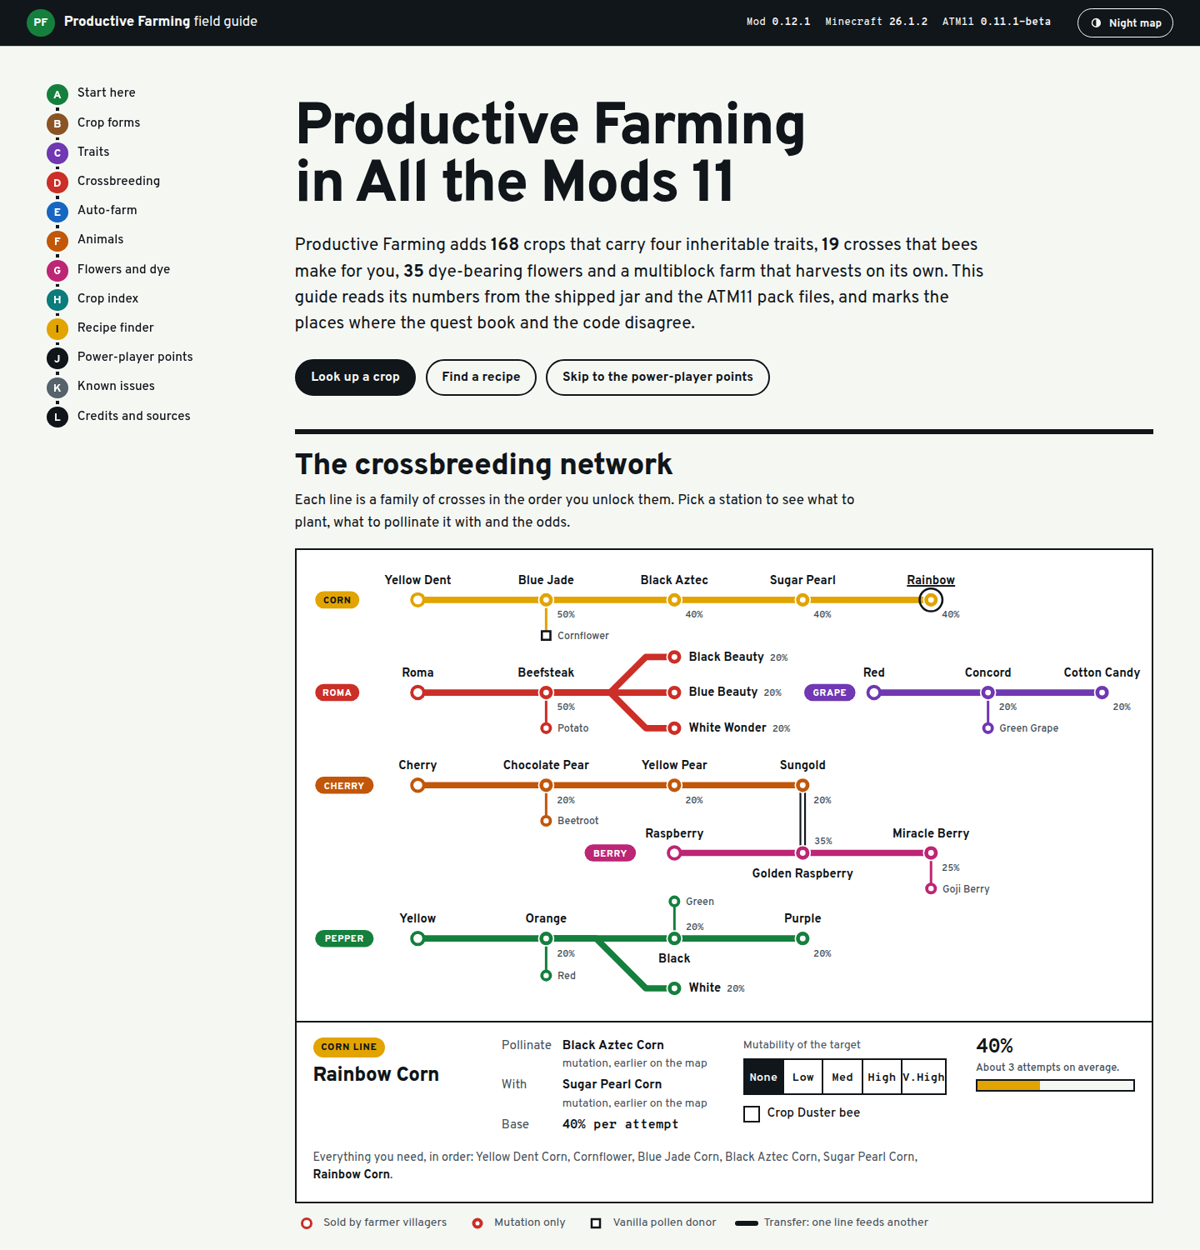
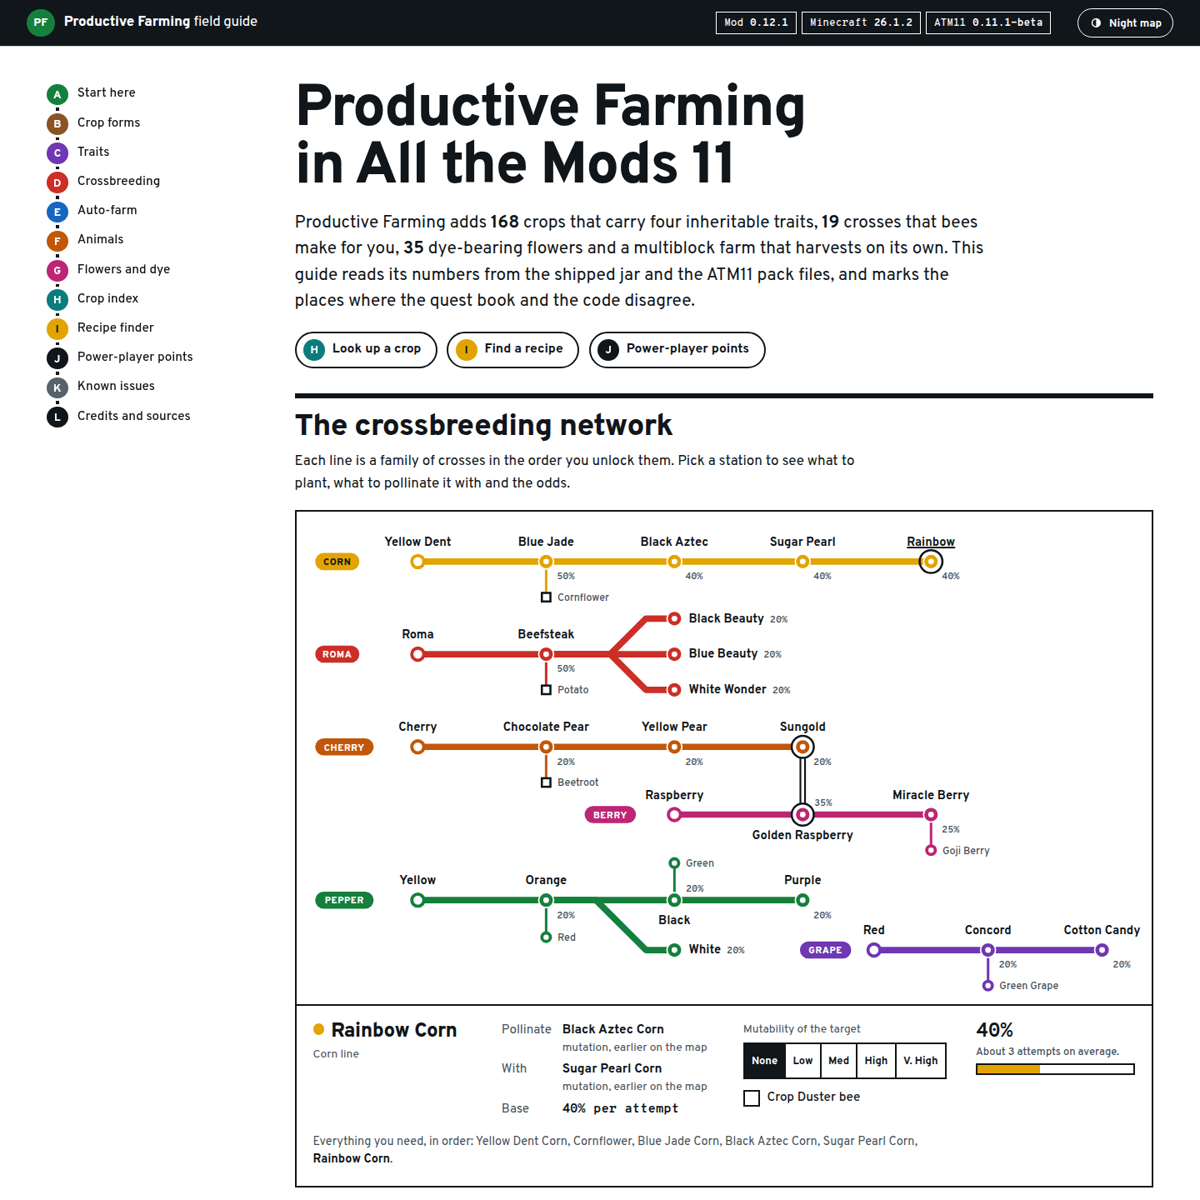
Loosen small-text leading; preview image provenance

diff --git a/assets/styles.css b/assets/styles.css
@@ -318,7 +318,7 @@ h1 {
 .m-stop.m-dim .dot-feed, .m-stop.m-dim .dot-x { stroke: var(--l-slate); }
 .m-tag.m-dim .m-line-bg { fill: var(--l-slate); }
 .m-tag.m-dim .m-line { fill: var(--on-line) !important; }
-.m-route, .m-feed, .m-link { transition: stroke 0.3s var(--ease), stroke-width 0.3s var(--ease); }
+.m-route, .m-feed, .m-link { transition: stroke 0.3s var(--ease); }
 
 @media (prefers-reduced-motion: no-preference) {
   .network.is-drawing .m-route { stroke-dasharray: var(--len); stroke-dashoffset: var(--len); animation: draw 1.4s var(--ease) forwards; animation-delay: calc(var(--i) * 0.12s); }
@@ -348,7 +348,7 @@ h1 {
 .meter__track { height: 0.9rem; border: 2px solid var(--ink); background: var(--paper); }
 .meter__fill { height: 100%; background: var(--c); width: var(--w); }
 .meter__val { font: 700 1.5rem/1 var(--mono); }
-.meter__val small { font: 500 0.8rem/1.3 var(--sans); color: var(--ink-2); display: block; margin-top: 0.3rem; }
+.meter__val small { font: 500 0.8rem/1.4 var(--sans); color: var(--ink-2); display: block; margin-top: 0.3rem; }
 .stepper { display: grid; gap: 0.35rem; }
 .stepper__label { font-size: 0.86rem; color: var(--ink-2); }
 .seg { display: flex; border: 2px solid var(--ink); }
@@ -511,7 +511,7 @@ select {
 }
 .blend__out { list-style: none; display: grid; grid-template-columns: repeat(5, minmax(0, 1fr)); gap: 0.5rem; position: relative; }
 .blend__out::before { content: ""; position: absolute; left: 10%; right: 10%; top: 1.25rem; height: 6px; margin-top: -3px; background: var(--ink); border-radius: 3px; }
-.blend__out li { display: grid; justify-items: center; gap: 0.35rem; text-align: center; font-size: 0.82rem; line-height: 1.25; position: relative; }
+.blend__out li { display: grid; justify-items: center; gap: 0.35rem; text-align: center; font-size: 0.82rem; line-height: 1.35; position: relative; }
 .disc { width: 2.5rem; height: 2.5rem; border-radius: 50%; background: var(--c); border: 3px solid var(--ink); }
 .blend__out .mono { color: var(--ink-2); font-size: 0.74rem; }
 
@@ -523,7 +523,7 @@ select {
 .flowers li { display: grid; grid-template-columns: auto 1fr; gap: 0.1rem 0.75rem; align-items: center; padding: 0.65rem 0.5rem 0.6rem 0; border-bottom: 1px solid var(--rule); }
 .flowers .disc { width: 2rem; height: 2rem; grid-row: span 2; border-width: 2.5px; }
 .flowers b { font-weight: 800; line-height: 1.2; }
-.flowers span { font-size: 0.84rem; color: var(--ink-2); line-height: 1.3; }
+.flowers span { font-size: 0.84rem; color: var(--ink-2); line-height: 1.36; }
 
 /* Finders */
 .finder { display: grid; gap: 0.9rem; max-width: 68rem; position: sticky; top: var(--bar-h); z-index: 5; background: var(--paper); padding: 0.75rem 0 0.6rem; border-bottom: 2px solid var(--ink); }
@@ -567,7 +567,7 @@ select {
 .mk-feed { fill: var(--panel); stroke: var(--ink); stroke-width: 2.6; }
 .index .nm { font-weight: 800; line-height: 1.2; }
 .index .lat { display: block; font-weight: 400; font-style: italic; font-size: 0.84rem; color: var(--ink-2); }
-.index .col { font-size: 0.92rem; line-height: 1.3; }
+.index .col { font-size: 0.92rem; line-height: 1.36; }
 .index .col small { display: block; color: var(--ink-2); font-size: 0.8rem; }
 .index details { border-block: 2px solid transparent; }
 .index details[open] { border-block-color: var(--ink); }
@@ -586,7 +586,7 @@ select {
 .recipes .rd { font-size: 0.94rem; color: var(--ink-2); margin-top: 0.15rem; }
 .recipes .rd b { color: var(--ink); font-weight: 600; }
 .grid3 { display: inline-grid; grid-template-columns: repeat(var(--cols), 5.6rem); gap: 2px; margin-top: 0.5rem; }
-.grid3 span { min-height: 3rem; display: grid; place-items: center; text-align: center; padding: 0.2rem; border: 1.5px solid var(--ink); background: var(--panel); font-size: 0.72rem; font-weight: 600; line-height: 1.15; color: var(--ink); }
+.grid3 span { min-height: 3rem; display: grid; place-items: center; text-align: center; padding: 0.2rem; border: 1.5px solid var(--ink); background: var(--panel); font-size: 0.72rem; font-weight: 600; line-height: 1.36; color: var(--ink); }
 .grid3 span.blank { border-style: dashed; border-color: var(--rule); background: transparent; }
 .btn { min-height: 2.75rem; padding: 0.16em 1.3rem 0; border: 2px solid var(--ink); border-radius: 1.4rem; background: var(--ink); color: var(--paper); font: 700 0.98rem/1 var(--sans); cursor: pointer; }
 .btn:hover { background: var(--l-amber); border-color: var(--l-amber); color: var(--on-amber); }
